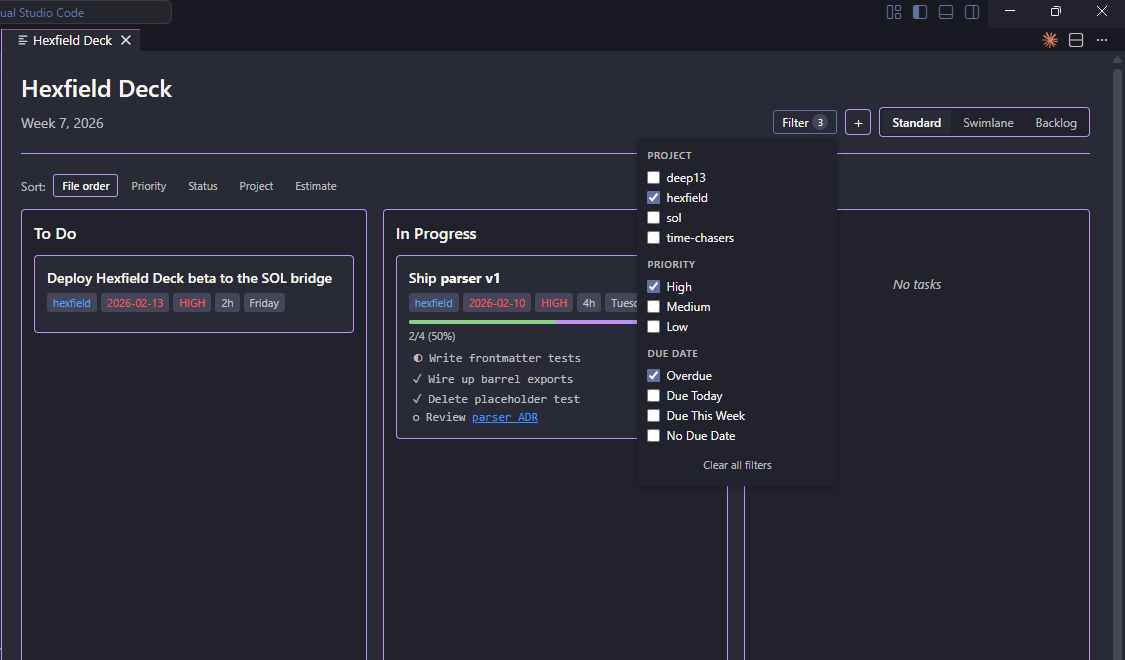
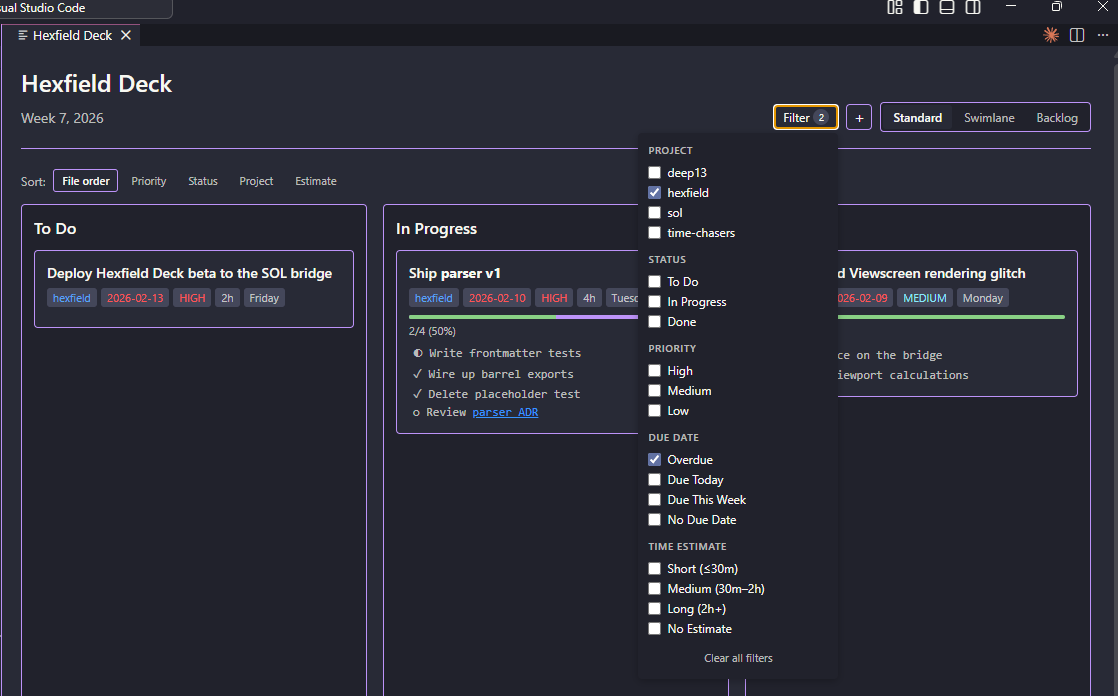
Adding status and time estimate filtering

diff --git a/packages/vscode-extension/src/webview/components/FilterDropdown.tsx b/packages/vscode-extension/src/webview/components/FilterDropdown.tsx
@@ -1,22 +1,33 @@
 import React, { useState, useEffect, useRef } from "react";
-import type { Card, Priority } from "@hexfield-deck/core";
+import type { Card, Priority, TaskStatus } from "@hexfield-deck/core";
 
 export type DueDateBucket = "overdue" | "today" | "this-week" | "none";
+export type EstimateBucket = "none" | "short" | "medium" | "long";
 
 export interface FilterState {
   projects: string[];
   priorities: Priority[];
   dueDates: DueDateBucket[];
+  statuses: TaskStatus[];
+  estimates: EstimateBucket[];
 }
 
 export const EMPTY_FILTER: FilterState = {
   projects: [],
   priorities: [],
   dueDates: [],
+  statuses: [],
+  estimates: [],
 };
 
 export function isFilterActive(f: FilterState): boolean {
-  return f.projects.length > 0 || f.priorities.length > 0 || f.dueDates.length > 0;
+  return (
+    f.projects.length > 0 ||
+    f.priorities.length > 0 ||
+    f.dueDates.length > 0 ||
+    f.statuses.length > 0 ||
+    f.estimates.length > 0
+  );
 }
 
 const PRIORITY_OPTIONS: { value: Priority; label: string }[] = [
@@ -30,6 +41,19 @@ const DUE_DATE_OPTIONS: { value: DueDateBucket; label: string }[] = [
   { value: "today", label: "Due Today" },
   { value: "this-week", label: "Due This Week" },
   { value: "none", label: "No Due Date" },
+];
+
+const STATUS_OPTIONS: { value: TaskStatus; label: string }[] = [
+  { value: "todo", label: "To Do" },
+  { value: "in-progress", label: "In Progress" },
+  { value: "done", label: "Done" },
+];
+
+const ESTIMATE_OPTIONS: { value: EstimateBucket; label: string }[] = [
+  { value: "short", label: "Short (≤30m)" },
+  { value: "medium", label: "Medium (30m–2h)" },
+  { value: "long", label: "Long (2h+)" },
+  { value: "none", label: "No Estimate" },
 ];
 
 interface FilterDropdownProps {
@@ -48,7 +72,11 @@ export function FilterDropdown({ cards, filter, onChange }: FilterDropdownProps)
   ].sort();
 
   const activeCount =
-    filter.projects.length + filter.priorities.length + filter.dueDates.length;
+    filter.projects.length +
+    filter.priorities.length +
+    filter.dueDates.length +
+    filter.statuses.length +
+    filter.estimates.length;
 
   // Close panel on click outside
   useEffect(() => {
@@ -83,6 +111,20 @@ export function FilterDropdown({ cards, filter, onChange }: FilterDropdownProps)
     onChange({ ...filter, dueDates: next });
   }
 
+  function toggleStatus(s: TaskStatus) {
+    const next = filter.statuses.includes(s)
+      ? filter.statuses.filter((x) => x !== s)
+      : [...filter.statuses, s];
+    onChange({ ...filter, statuses: next });
+  }
+
+  function toggleEstimate(e: EstimateBucket) {
+    const next = filter.estimates.includes(e)
+      ? filter.estimates.filter((x) => x !== e)
+      : [...filter.estimates, e];
+    onChange({ ...filter, estimates: next });
+  }
+
   return (
     <div className="filter-wrapper" ref={ref}>
       <button
@@ -115,6 +157,20 @@ export function FilterDropdown({ cards, filter, onChange }: FilterDropdownProps)
           )}
 
           <div className="filter-section">
+            <div className="filter-section-label">Status</div>
+            {STATUS_OPTIONS.map(({ value, label }) => (
+              <label key={value} className="filter-option">
+                <input
+                  type="checkbox"
+                  checked={filter.statuses.includes(value)}
+                  onChange={() => toggleStatus(value)}
+                />
+                {label}
+              </label>
+            ))}
+          </div>
+
+          <div className="filter-section">
             <div className="filter-section-label">Priority</div>
             {PRIORITY_OPTIONS.map(({ value, label }) => (
               <label key={value} className="filter-option">
@@ -136,6 +192,20 @@ export function FilterDropdown({ cards, filter, onChange }: FilterDropdownProps)
                   type="checkbox"
                   checked={filter.dueDates.includes(value)}
                   onChange={() => toggleDueDate(value)}
+                />
+                {label}
+              </label>
+            ))}
+          </div>
+
+          <div className="filter-section">
+            <div className="filter-section-label">Time Estimate</div>
+            {ESTIMATE_OPTIONS.map(({ value, label }) => (
+              <label key={value} className="filter-option">
+                <input
+                  type="checkbox"
+                  checked={filter.estimates.includes(value)}
+                  onChange={() => toggleEstimate(value)}
                 />
                 {label}
               </label>

diff --git a/packages/vscode-extension/src/webview/components/App.tsx b/packages/vscode-extension/src/webview/components/App.tsx
@@ -5,9 +5,9 @@ import { SwimlaneView } from "./SwimlaneView.js";
 import { ContextMenu } from "./ContextMenu.js";
 import type { ContextMenuAction } from "./ContextMenu.js";
 import { FilterDropdown } from "./FilterDropdown.js";
-import type { FilterState, DueDateBucket } from "./FilterDropdown.js";
+import type { FilterState, DueDateBucket, EstimateBucket } from "./FilterDropdown.js";
 import { EMPTY_FILTER, isFilterActive } from "./FilterDropdown.js";
-import type { BoardData, Card, Priority } from "@hexfield-deck/core";
+import type { BoardData, Card, Priority, TaskStatus } from "@hexfield-deck/core";
 
 type ViewMode = "standard" | "swimlane" | "backlog";
 
@@ -48,14 +48,39 @@ function matchesDueDateBucket(dueDate: string | undefined, buckets: DueDateBucke
   return false;
 }
 
+function parseEstimateMinutes(est?: string): number | null {
+  if (!est) return null;
+  let total = 0;
+  const hours = est.match(/(\d+)h/);
+  const mins = est.match(/(\d+)m/);
+  if (hours) total += parseInt(hours[1]) * 60;
+  if (mins) total += parseInt(mins[1]);
+  return total || null;
+}
+
+function matchesEstimateBucket(timeEstimate: string | undefined, buckets: EstimateBucket[]): boolean {
+  if (buckets.includes("none") && !timeEstimate) return true;
+  if (!timeEstimate) return false;
+  const mins = parseEstimateMinutes(timeEstimate);
+  if (mins === null) return false;
+  if (buckets.includes("short") && mins <= 30) return true;
+  if (buckets.includes("medium") && mins > 30 && mins <= 120) return true;
+  if (buckets.includes("long") && mins > 120) return true;
+  return false;
+}
+
 function filterCards(cards: Card[], f: FilterState): Card[] {
   if (!isFilterActive(f)) return cards;
   return cards.filter((card) => {
     if (f.projects.length > 0 && (!card.project || !f.projects.includes(card.project)))
       return false;
+    if (f.statuses.length > 0 && !f.statuses.includes(card.status as TaskStatus))
+      return false;
     if (f.priorities.length > 0 && (!card.priority || !f.priorities.includes(card.priority as Priority)))
       return false;
     if (f.dueDates.length > 0 && !matchesDueDateBucket(card.dueDate, f.dueDates))
+      return false;
+    if (f.estimates.length > 0 && !matchesEstimateBucket(card.timeEstimate, f.estimates))
       return false;
     return true;
   });
